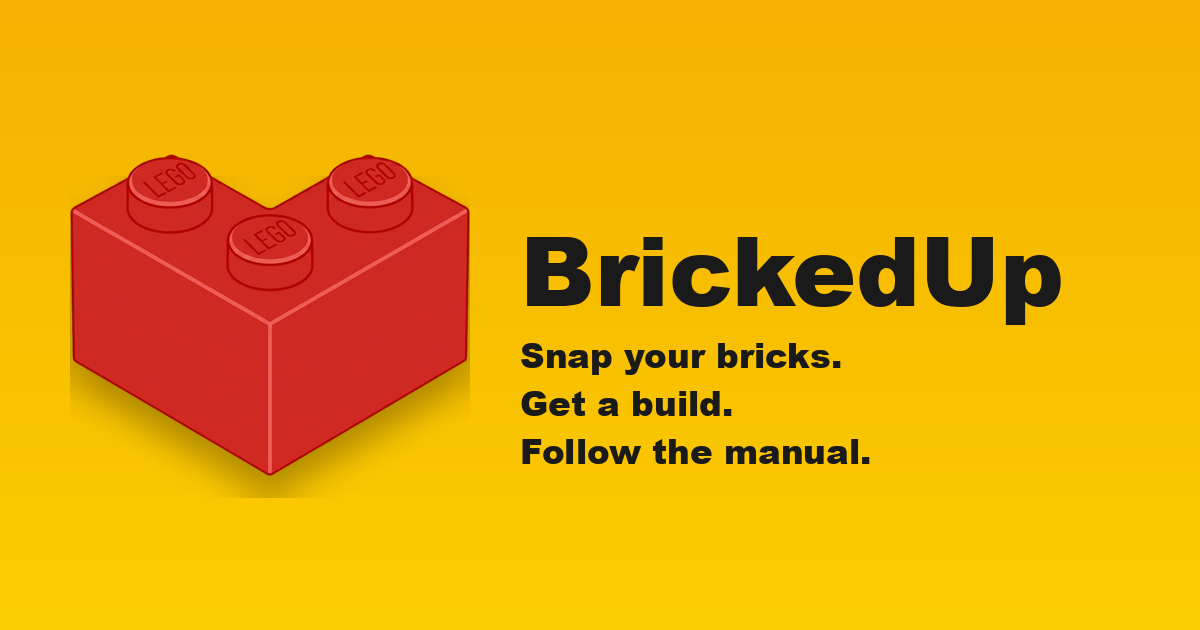
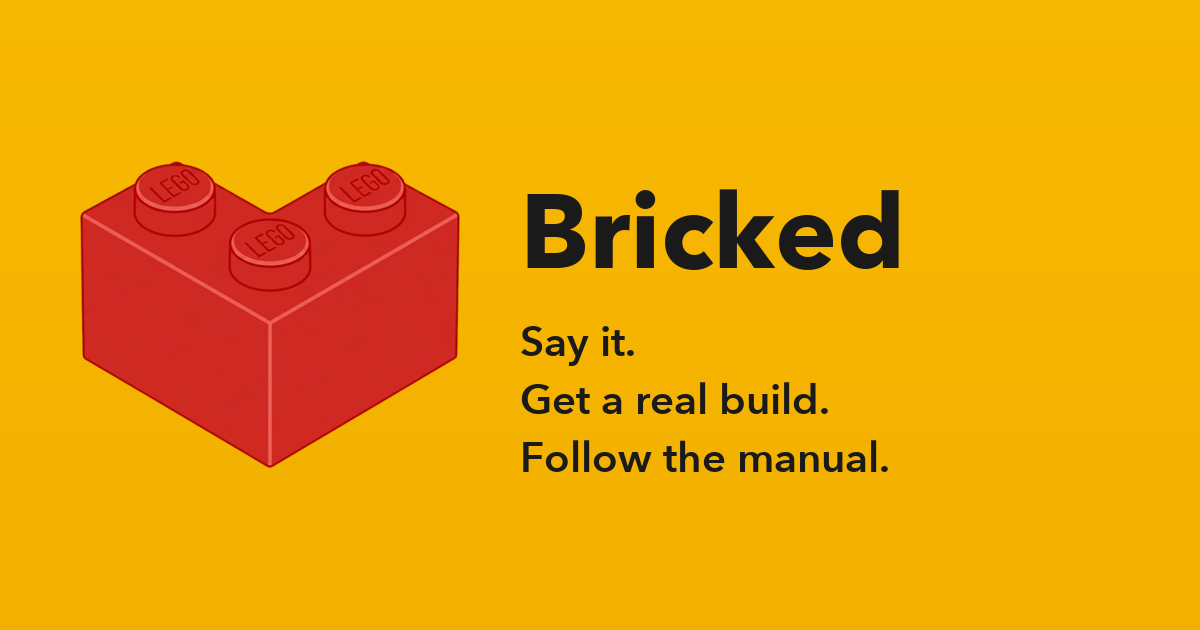
Bricked
The name is one line in lib/brand.ts, so the app, the manifest, the PDF and
the notifications followed. The share image had it baked in, so it is now
rendered from that same line (scripts/make-og.py) rather than hand-made, and
the tagline lost 'snap your bricks' - there is nothing to snap any more.

Also: a run whose browser has gone now stops instead of designing for
nobody. Four near-identical sharks were sitting in the runs folder because
abandoned runs kept going.

diff --git a/web/src/lib/notify.ts b/web/src/lib/notify.ts
@@ -7,7 +7,7 @@
 //
 // Permission is only ever requested from a tap on the bell, never on load.
 
-const PREF = "brickedup.stepNotifications";
+const PREF = "bricked.stepNotifications";
 
 const listeners = new Set<() => void>();
 let cached: NotifyState | null = null;
@@ -78,7 +78,7 @@ export async function notifyStep(title: string, body: string, done = false) {
   if (notifyState() !== "on" || document.visibilityState === "visible") return;
   const options: NotificationOptions = {
     body,
-    tag: "brickedup-step",
+    tag: "bricked-step",
     icon: "/icons/icon-192.png",
     badge: "/icons/icon-192.png",
     silent: !done, // only the finished model makes a sound

diff --git a/web/src/lib/brand.ts b/web/src/lib/brand.ts
@@ -1,6 +1,6 @@
 // Product name; change here and it updates everywhere (UI, manifest, PDF).
-/** The logo mark: a red corner brick (public/brand, trimmed; source in brickedup-logo.png). */
+/** The logo mark: a red corner brick (public/brand, trimmed; source in brand-logo.png). */
 export const LOGO_SRC = "/brand/mark-512.png";
 export const LOGO_SMALL_SRC = "/brand/mark-160.png";
-export const APP_NAME = "BrickedUp";
-export const APP_TAGLINE = "Snap your bricks. Get a build. Follow the manual.";
+export const APP_NAME = "Bricked";
+export const APP_TAGLINE = "Say it. Get a real build. Follow the manual.";

diff --git a/web/scripts/make-og.py b/web/scripts/make-og.py
@@ -1,0 +1,45 @@
+"""The share image: the mark, the name and the tagline on the app's yellow.
+
+Rendered rather than hand-made so a rename is one command:
+    python scripts/make-og.py        (needs Pillow: brickify's venv has it)
+"""
+import re
+from pathlib import Path
+from PIL import Image, ImageDraw, ImageFont
+
+WEB = Path(__file__).resolve().parent.parent
+brand = (WEB / "src/lib/brand.ts").read_text()
+name = re.search(r'APP_NAME = "([^"]+)"', brand).group(1)
+tagline = re.search(r'APP_TAGLINE = "([^"]+)"', brand).group(1)
+
+W, H = 1200, 630
+YELLOW_TOP, YELLOW_BOTTOM, INK = (247, 184, 1), (243, 176, 0), (26, 26, 26)
+# Avenir Next Bold is the closest thing on macOS to the app's Figtree black
+FONT = "/System/Library/Fonts/Avenir Next.ttc"
+
+img = Image.new("RGB", (W, H), YELLOW_TOP)
+draw = ImageDraw.Draw(img)
+for y in range(H):  # the same top-to-bottom warmth as the app's yellow
+    t = y / H
+    draw.line([(0, y), (W, y)], fill=tuple(round(a + (b - a) * t) for a, b in zip(YELLOW_TOP, YELLOW_BOTTOM)))
+
+mark = Image.open(WEB / "public/brand/mark-512.png").convert("RGBA")
+side = 380
+mark.thumbnail((side, side))
+img.paste(mark, (80, (H - mark.height) // 2), mark)
+
+x = 80 + side + 60
+title = ImageFont.truetype(FONT, 104, index=0)
+body = ImageFont.truetype(FONT, 42, index=2)
+lines = [s.strip() for s in tagline.split(".") if s.strip()]
+block = 128 + len(lines) * 58
+y = (H - block) // 2
+draw.text((x, y), name, font=title, fill=INK)
+y += 150
+for line in lines:
+    draw.text((x, y), line + ".", font=body, fill=INK)
+    y += 58
+
+out = WEB / "public/brand/og.png"
+img.save(out)
+print("wrote", out, f"({name})")

diff --git a/bricolage/server.py b/bricolage/server.py
@@ -178,8 +178,13 @@ class H(BaseHTTPRequestHandler):
 
         def push(ev):
             with lock:
-                self.wfile.write(f"data: {json.dumps(ev)}\n\n".encode())
-                self.wfile.flush()
+                try:
+                    self.wfile.write(f"data: {json.dumps(ev)}\n\n".encode())
+                    self.wfile.flush()
+                except (BrokenPipeError, ConnectionResetError, OSError):
+                    # the browser left: stop designing for nobody. The run keeps
+                    # whatever it has already built and saved.
+                    tape.gone = True
 
         # HEARTBEAT: a real `claude -p` design takes 60-130s, and a proxy/browser
         # will drop an SSE connection that goes silent that long — the client then
@@ -197,11 +202,13 @@ class H(BaseHTTPRequestHandler):
                         self.wfile.write(b": ping\n\n")
                         self.wfile.flush()
                 except (BrokenPipeError, ConnectionResetError, OSError):
+                    tape.gone = True  # nobody is listening; the run can stop
                     break
         hb = threading.Thread(target=heartbeat, daemon=True)
         hb.start()
 
         tape = Tape()
+        tape.gone = False
         tape.listeners.append(push)
         try:
             SESSION.build(prompt, tape=tape, sketch=sketch)

diff --git a/bricolage/engine_c.py b/bricolage/engine_c.py
@@ -69,10 +69,16 @@ def _thumb(path: str, side: int = 460) -> str | None:
         return None
 
 
+class Abandoned(Exception):
+    """Nobody is watching this run any more, so it stops."""
+
+
 def _listeners(tape):
     """brickify events -> this package's tape (and so the SSE stream)."""
 
     def on_event(ev):
+        if getattr(tape, "gone", False):
+            raise Abandoned("the browser left, so this design stopped")
         extra = {k: v for k, v in ev.items() if k not in ("t", "actor", "kind", "text", "status")}
         tape.emit(ev["actor"], ev["kind"], ev["text"], status=ev["status"], **extra)
 

diff --git a/AGENTS.md b/AGENTS.md
@@ -187,20 +187,20 @@ judged the same way.
 
 ## Brand
 
-14. **The brand is BrickedUp, and the mark is the red corner brick.** Use the
+14. **The brand is Bricked, and the mark is the red corner brick.** Use the
     real logo image, never a drawn stand-in: on the splash (big, above the
     wordmark), in the home header as a small lockup (mark + name) above the
     greeting, as the glyph on the yellow "build" buttons, on the app and
     home-screen icons (mark on the app's yellow), and on the PDF manual (cover
-    band plus a "Made with BrickedUp" footer on every page).
+    band plus a "Made with Bricked" footer on every page).
     *How:* `LogoMark` / `LogoLockup` / `Wordmark` in `components/ui/Logo.tsx`;
     the name and logo paths live in `lib/brand.ts` so a rename is one line.
-    Web sizes are in `public/brand/` (trimmed from `brickedup-logo.png`).
+    Web sizes are in `public/brand/` (trimmed from `brand-logo.png`).
     The mark carries the whole app, not just a few spots: `BrickLoader` (the
     logo hopping onto its shadow) replaces every spinner; the lockup sits on
     the Designing, Scanning and Printing screens; the tab bar's scan button,
     the empty inventory, 404 and error pages use the mark; finishing a build
-    stamps it with "Built with BrickedUp"; shared links get `brand/og.png`.
+    stamps it with "Built with Bricked"; shared links get `brand/og.png`.
     *Why:* the first pass (splash, header, icons, PDF) "seems very limited".
 
 ## Performance
